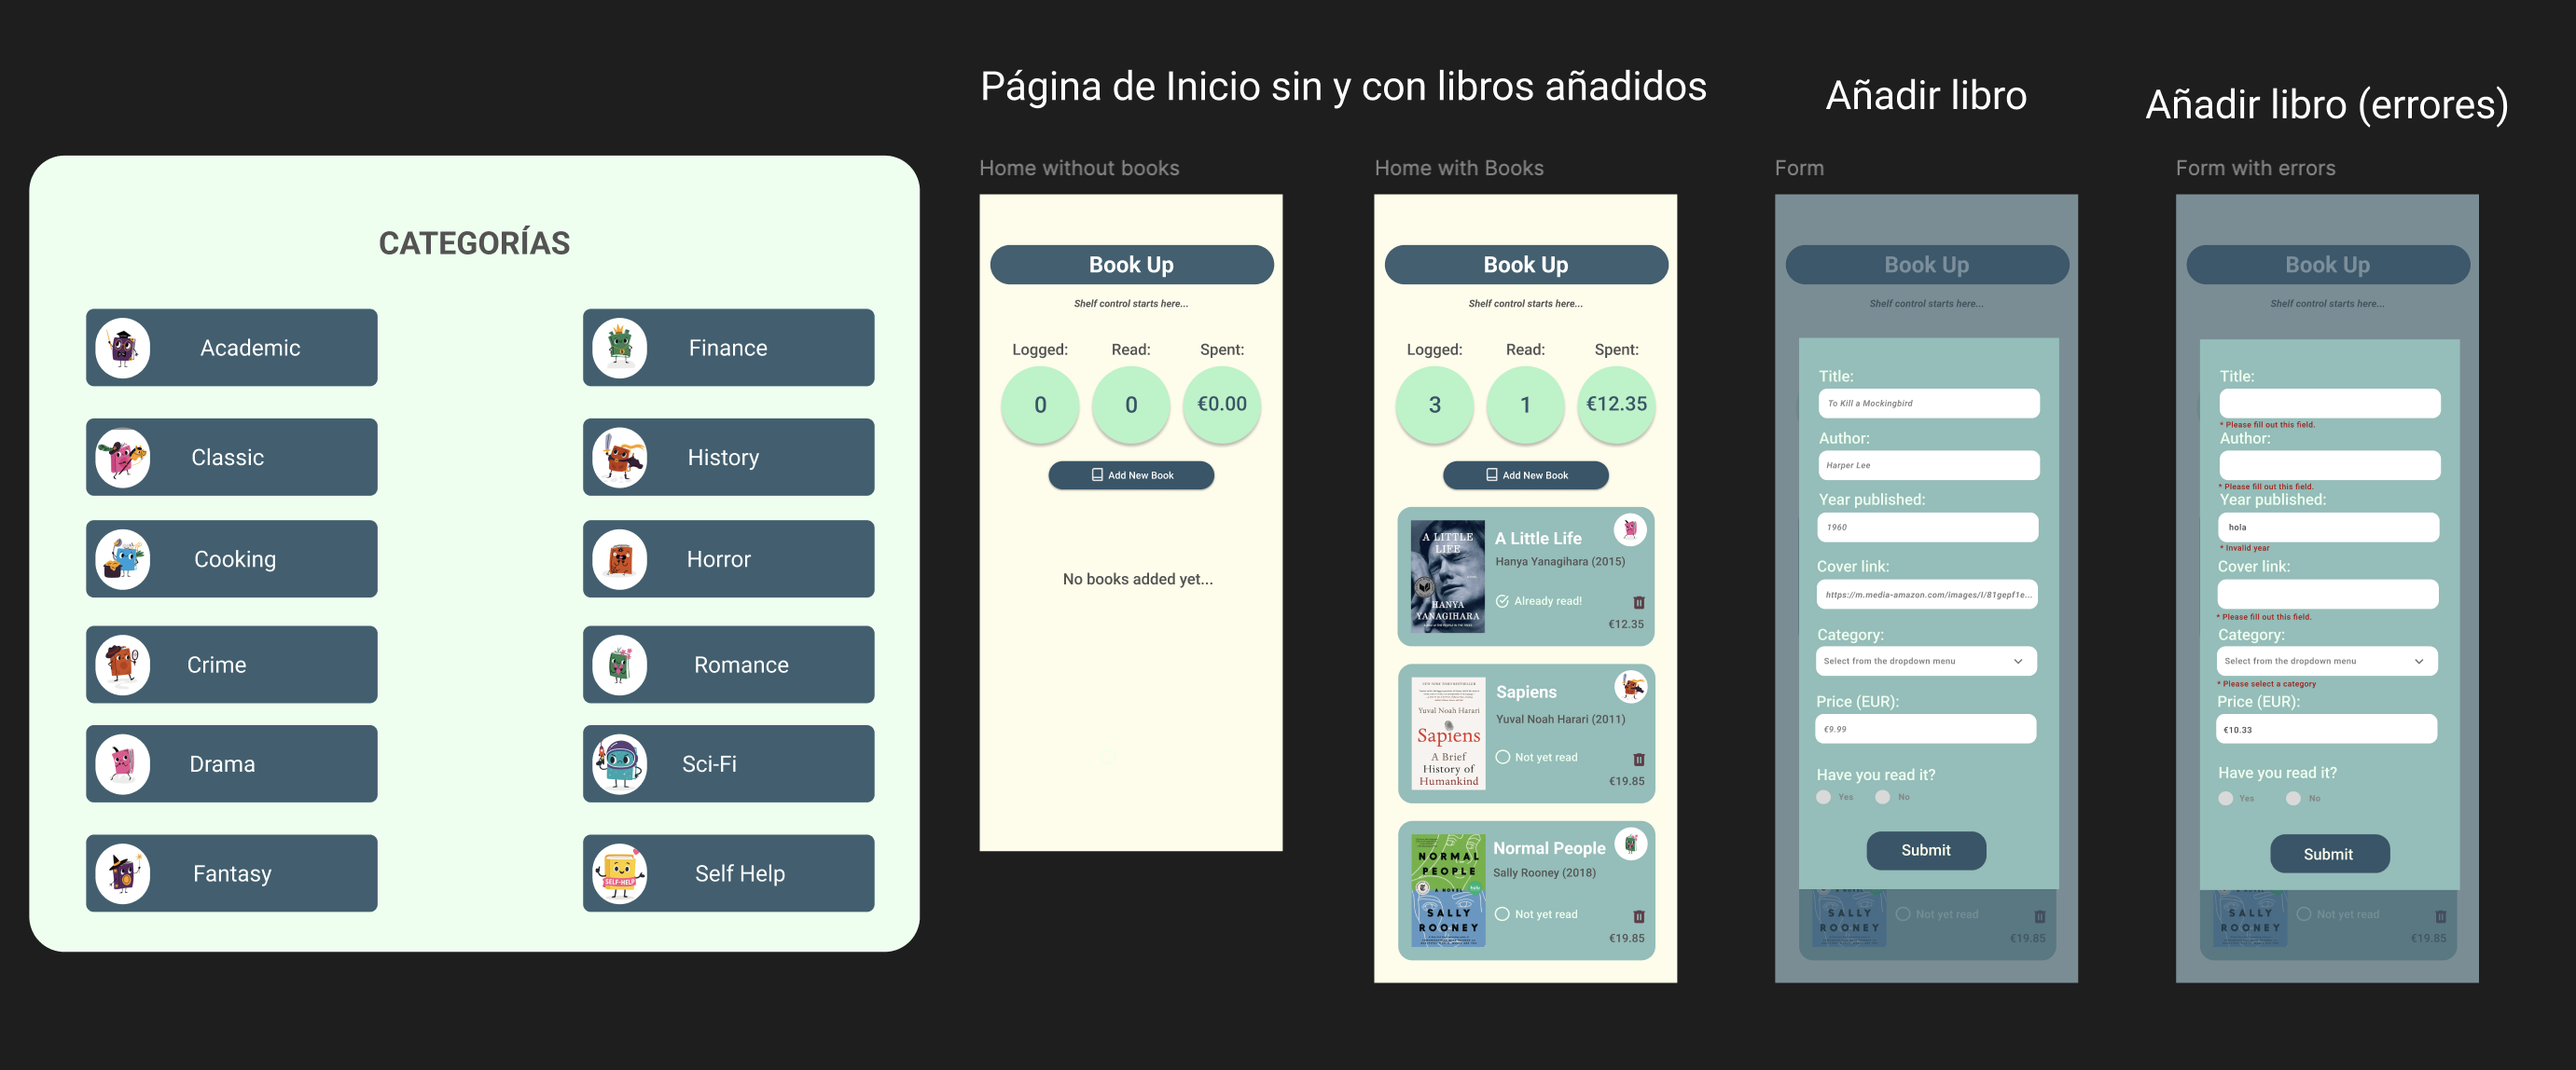
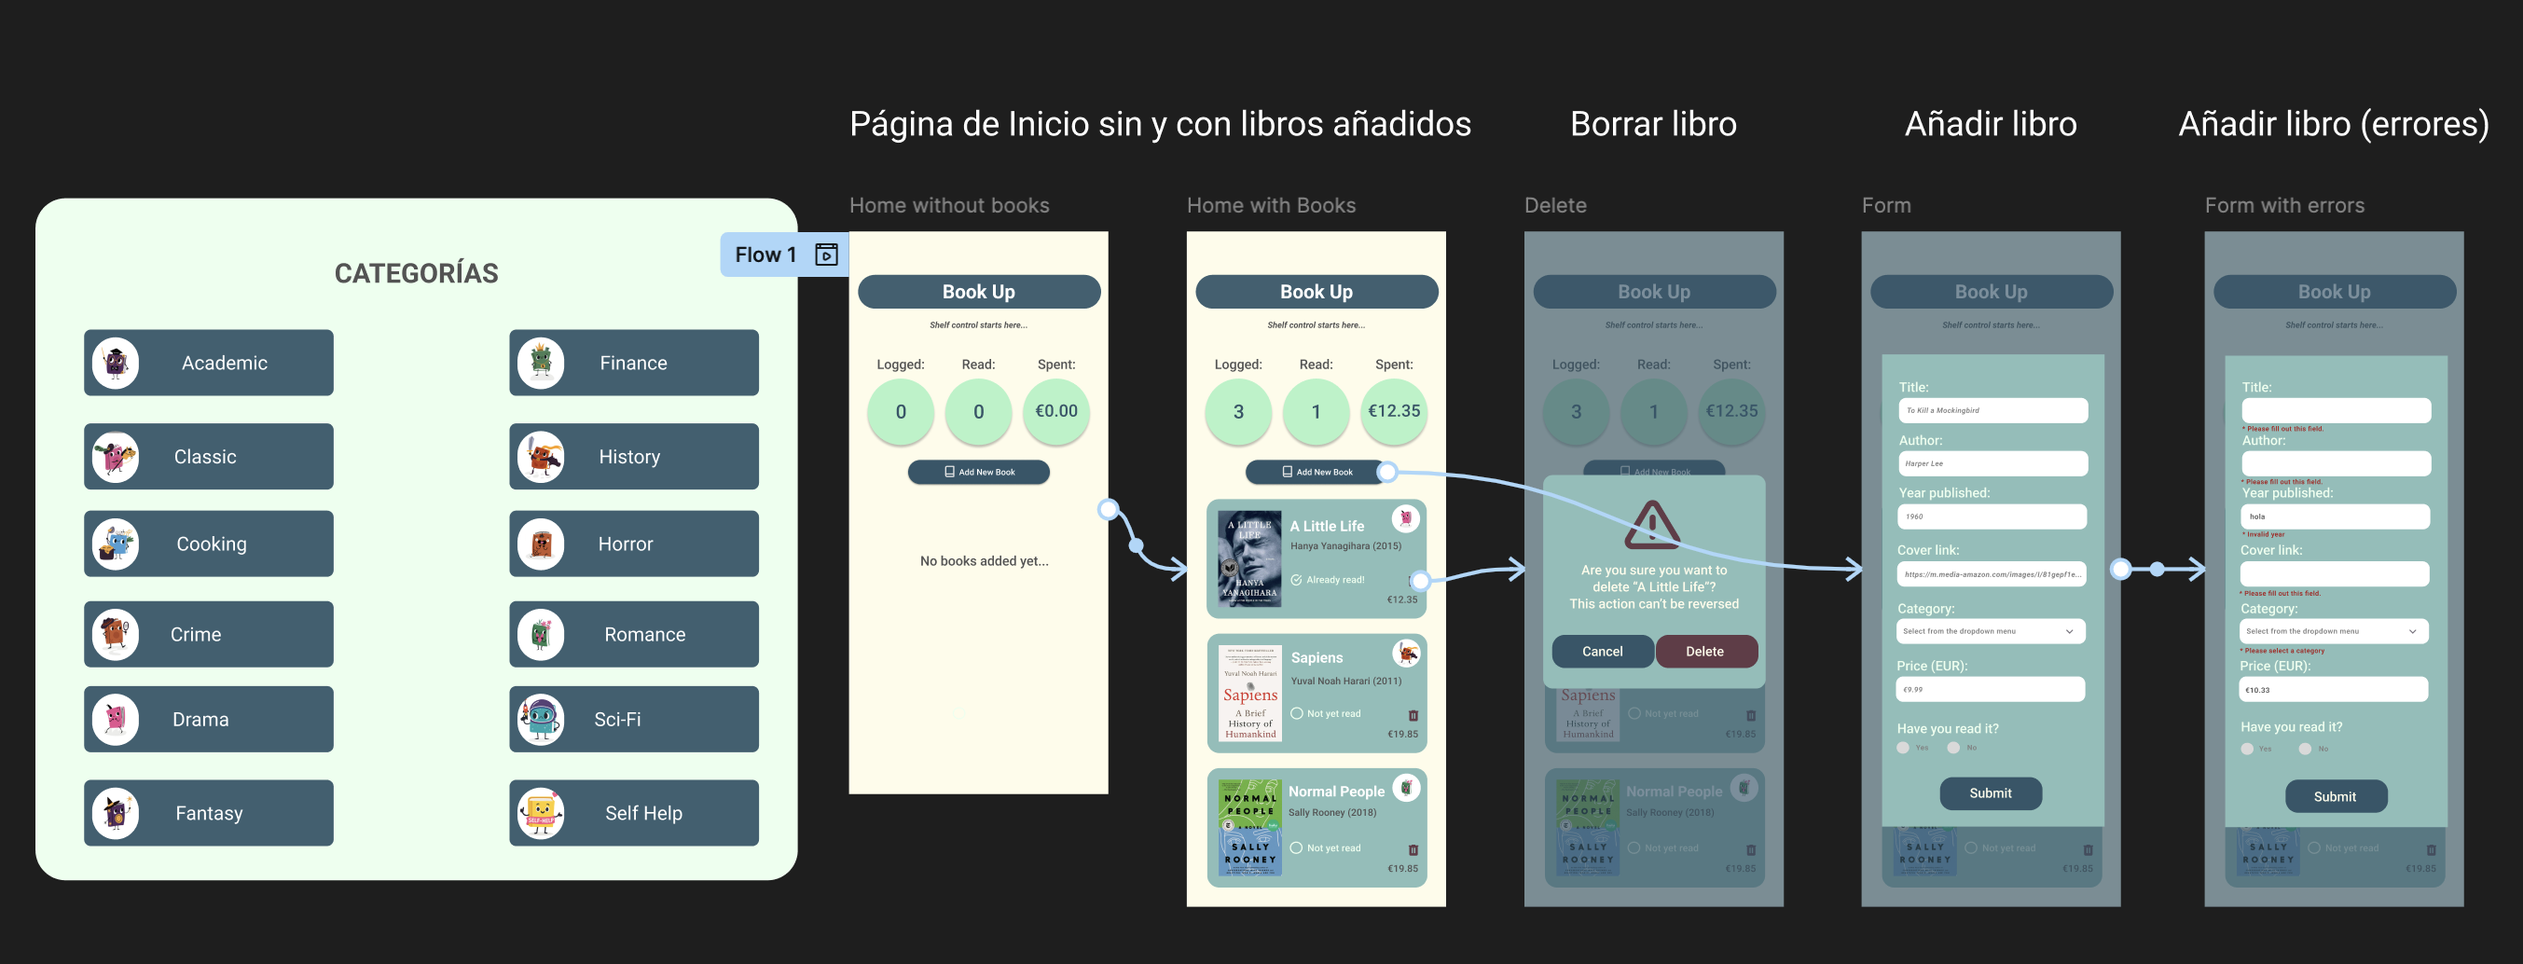
docs(design): add book deletion design

diff --git a/docs/01-figma-design.md b/docs/01-figma-design.md
@@ -49,18 +49,17 @@ En Figma, además de mostrar el diseño, he incluido una pequeña simulación de
 ## Colores y tipografía
 
 Crear una `paleta de colores` es esencial para mantener la consistencia visual y la identidad de un proyecto. En este caso, la paleta define colores específicos para elementos clave como fondos, textos y estados (advertencias, resaltados, etc.):
-
-| Nombre del color     | Código HEX | Nombre asignado en el proyecto | Muestra de color                                                                                                  |
+| Nombre del color | Código HEX | Nombre asignado en el proyecto | Muestra de color |
 | -------------------- | ---------- | ------------------------------ | ----------------------------------------------------------------------------------------------------------------- |
-| Amarillo claro       | `#FEFCEA`  | Fondo principal                | <span style="background-color:#FEFCEA; padding:5px; border:1px solid #000;">&nbsp;&nbsp;&nbsp;&nbsp;&nbsp;</span> |
-| Verde azulado        | `#8ABEB9`  | Fondo secundario               | <span style="background-color:#8ABEB9; padding:5px; border:1px solid #000;">&nbsp;&nbsp;&nbsp;&nbsp;&nbsp;</span> |
-| Verde menta claro    | `#AFF4C6`  | Resaltado                      | <span style="background-color:#AFF4C6; padding:5px; border:1px solid #000;">&nbsp;&nbsp;&nbsp;&nbsp;&nbsp;</span> |
-| Azul petróleo oscuro | `#305669`  | Fondo botón                    | <span style="background-color:#305669; padding:5px; border:1px solid #000;">&nbsp;&nbsp;&nbsp;&nbsp;&nbsp;</span> |
-| Gris oscuro          | `#535353`  | Texto primario                 | <span style="background-color:#535353; padding:5px; border:1px solid #000;">&nbsp;&nbsp;&nbsp;&nbsp;&nbsp;</span> |
-| Blanco               | `#FFFFFF`  | Texto secundario               | <span style="background-color:#FFFFFF; padding:5px; border:1px solid #000;">&nbsp;&nbsp;&nbsp;&nbsp;&nbsp;</span> |
-| Verde pastel         | `#EBFFEE`  | Texto terciario                | <span style="background-color:#EBFFEE; padding:5px; border:1px solid #000;">&nbsp;&nbsp;&nbsp;&nbsp;&nbsp;</span> |
-| Granate oscuro       | `#633B48`  | Borrar                         | <span style="background-color:#633B48; padding:5px; border:1px solid #000;">&nbsp;&nbsp;&nbsp;&nbsp;&nbsp;</span> |
-| Rojo intenso         | `#B51111`  | Advertencia                    | <span style="background-color:#B51111; padding:5px; border:1px solid #000;">&nbsp;&nbsp;&nbsp;&nbsp;&nbsp;</span> |
+| Amarillo claro | `#FEFCEA` | Fondo principal | <div style="background-color:#FEFCEA; width:50px; height:20px; border:1px solid #000;"></div> |
+| Verde azulado | `#8ABEB9` | Fondo secundario | <div style="background-color:#8ABEB9; width:50px; height:20px; border:1px solid #000;"></div> |
+| Verde menta claro | `#AFF4C6` | Resaltado | <div style="background-color:#AFF4C6; width:50px; height:20px; border:1px solid #000;"></div> |
+| Azul petróleo oscuro | `#305669` | Fondo botón | <div style="background-color:#305669; width:50px; height:20px; border:1px solid #000;"></div> |
+| Gris oscuro | `#535353` | Texto primario | <div style="background-color:#535353; width:50px; height:20px; border:1px solid #000;"></div> |
+| Blanco | `#FFFFFF` | Texto secundario | <div style="background-color:#FFFFFF; width:50px; height:20px; border:1px solid #000;"></div> |
+| Verde pastel | `#EBFFEE` | Texto terciario | <div style="background-color:#EBFFEE; width:50px; height:20px; border:1px solid #000;"></div> |
+| Granate oscuro | `#633B48` | Borrar | <div style="background-color:#633B48; width:50px; height:20px; border:1px solid #000;"></div> |
+| Rojo intenso | `#B51111` | Advertencia | <div style="background-color:#B51111; width:50px; height:20px; border:1px solid #000;"></div> |
 
 [Puedes hacer click aquí para ver el fichero de la paleta de colores](../src/theme/color.ts)
 
@@ -82,22 +81,22 @@ Todas estas representaciones fueron obtenidas [iStock](https://www.istockphoto.c
 
 ### Inicio (sin libros)
 
-<div style="display: flex; align-items: center; gap: 20px;">
-    <div style="flex: 1; height: 500px;">
+<div style="display: flex; flex-direction: row; align-items: center; gap: 20px;">
+    <div style="flex: 1; height: 500px; width: 40%;">
         <img src="./images/screenshots/figma/home.png" alt="Pantalla inicial sin libros" style="max-width: 100%;">
     </div>
-    <div style="flex: 1;">
+    <div style="flex: 1; width: 40%;">
         <p>Esta pantalla muestra el estado inicial de la aplicación cuando no hay libros en la lista. Incluye un mensaje informativo indicando que la lista está vacía y los contadores de elementos están en cero.</p>
     </div>
 </div>
 
 ### Inicio (con libros)
 
-<div style="display: flex; align-items: center; gap: 20px;">
-    <div style="flex: 1; height: 500px;">
+<div style="display: flex; flex-direction: row; align-items: center; gap: 20px;">
+    <div style="flex: 1; height: 500px; width: 40%;">
         <img src="./images/screenshots/figma/books.png" alt="Pantalla inicial sin libros" style="max-width: 100%;">
     </div>
-    <div style="flex: 1;">
+    <div style="flex: 1; width: 40%;">
         <p>En esta pantalla se presenta el listado de libros añadidos, junto con el número total de elementos, cuántos están marcados como leídos y el precio total de los leídos.</p>
         <p> Cada libro incluye su título, portada, autor, año de publicación, precio, estado (leído o no) y una imagen asociada a su categoría.</p>
         <p>La eliminación de un libro es posible clicando en el icono de la papelera.</p>
@@ -105,13 +104,25 @@ Todas estas representaciones fueron obtenidas [iStock](https://www.istockphoto.c
     </div>
 </div>
 
+### Advertencia de borrado de libro
+
+<div style="display: flex; flex-direction: row; align-items: center; gap: 20px;">
+    <div style="flex: 1; height: 500px; width: 40%;">
+        <img src="./images/screenshots/figma/delete.png" alt="Pantalla inicial sin libros" style="max-width: 100%;">
+    </div>
+    <div style="flex: 1; width: 40%;">
+        <p>Al pulsar en la papelera para eliminar un libro, se desplegará esta pequeña ventana de advertencia donde debe confirmarse su eliminación.</p>
+        </ul>
+    </div>
+</div>
+
 ### Formulario de creación
 
-<div style="display: flex; align-items: center; gap: 20px;">
-    <div style="flex: 1; height: 500px;">
+<div style="display: flex; flex-direction: row; align-items: center; gap: 20px;">
+    <div style="flex: 1; height: 500px; width: 40%;">
         <img src="./images/screenshots/figma/form.png" alt="Pantalla inicial sin libros" style="max-width: 100%;">
     </div>
-    <div style="flex: 1;">
+    <div style="flex: 1; width: 40%;">
         <p>El diseño de esta pantalla incluye un modal con un formulario para añadir un nuevo libro. El formulario permite ingresar todos los datos necesarios, como título, portada, autor, año de publicación, precio y categoría.</p>
         <p> Todos los campos son requeridos.</p>
         <p> Se dan validaciones de las entradas del usuario:</p>
@@ -128,11 +139,11 @@ Todas estas representaciones fueron obtenidas [iStock](https://www.istockphoto.c
 
 ### Formulario con errores
 
-<div style="display: flex; align-items: center; gap: 20px;">
-    <div style="flex: 1; height: 500px;">
+<div style="display: flex; flex-direction: row; align-items: center; gap: 20px;">
+    <div style="flex: 1; height: 500px; width: 40%">
         <img src="./images/screenshots/figma/validation.png" alt="Pantalla inicial sin libros" style="max-width: 100%;">
     </div>
-    <div style="flex: 1;">
+    <div style="flex: 1; width: 40%">
         <p>Esta pantalla muestra el formulario de creación con validaciones activadas. Los errores se destacan visualmente para guiar al usuario en la corrección de los datos ingresados.</p>
         <p>Estos son sólo alguno de los errores que pueden ocurrir.</p>
     </div>
